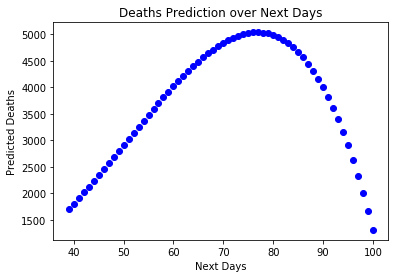
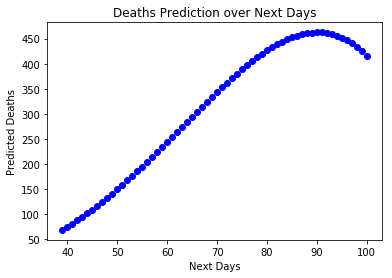
minor chages

diff --git a/5-4-2020-report/main.md b/5-4-2020-report/main.md
@@ -281,12 +281,14 @@ plt.show()
 ![png](output_29_0.png)
 
 
-###### Predict Cases for a specific Day
+###### Predict Cases for a specific Day or Today
 
 
 ```python
-# Predicting a new result with Polynomial Regression 
-prediction = lin2.predict(poly.fit_transform([[39]]))
+# Predicting a new result with Polynomial Regression
+# "current_day" is for today otherwise use an interget number greater tha today day
+current_day = len(country_df)
+prediction = lin2.predict(poly.fit_transform([[current_day]]))
 
 # Print the Predicted number rounded
 print("Cases Prediction for the given day is {0}".format(round(prediction[0])))
@@ -352,15 +354,17 @@ plt.show()
 ![png](output_35_0.png)
 
 
-###### Predict Deaths for a specific Day
+###### Predict Deaths for a specific Day or Today
 
 
 ```python
-# Predicting a new result with Polynomial Regression 
-prediction = lin2.predict(poly.fit_transform([[85]]))
+# Predicting a new result with Polynomial Regression
+# "current_day" is for today otherwise use an interget number greater tha today day
+current_day = len(country_df)
+prediction = lin2.predict(poly.fit_transform([[current_day]]))
 # Print the Predicted number rounded
 print("Deaths Prediction for the given day is {0}".format(round(prediction[0])))
 ```
 
-    Deaths Prediction for the given day is 453.0
+    Deaths Prediction for the given day is 68.0
     
